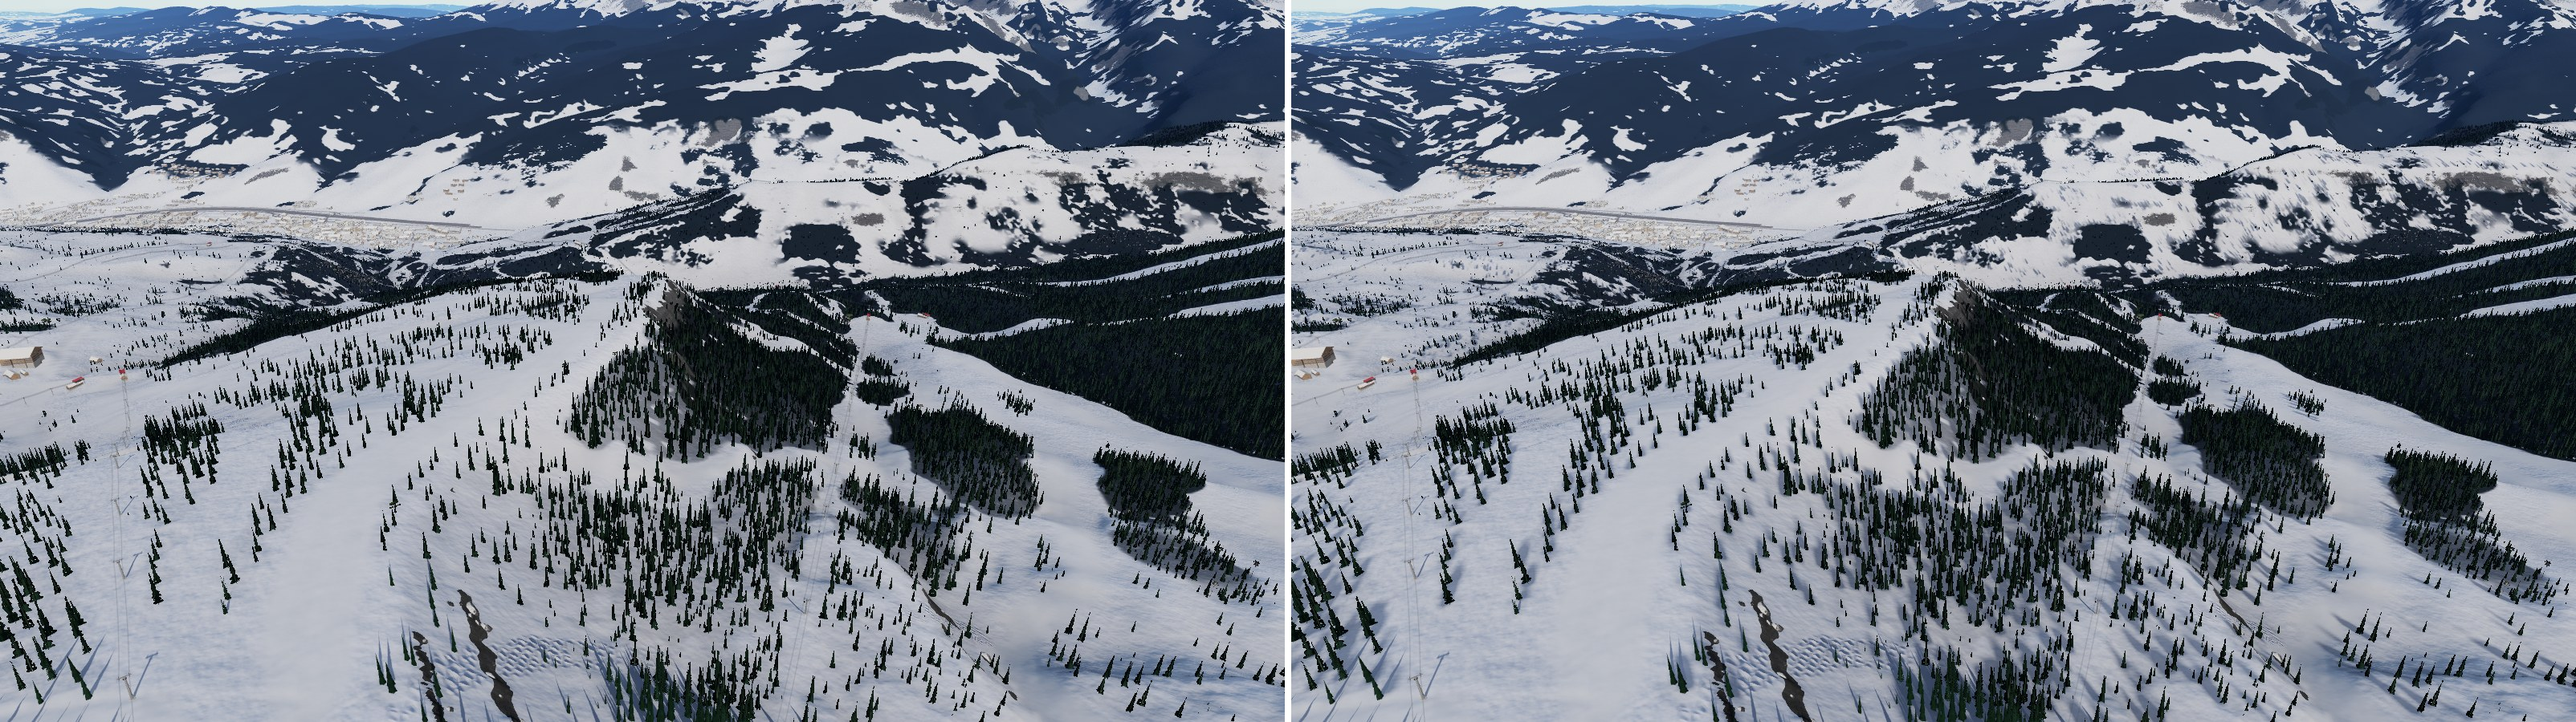
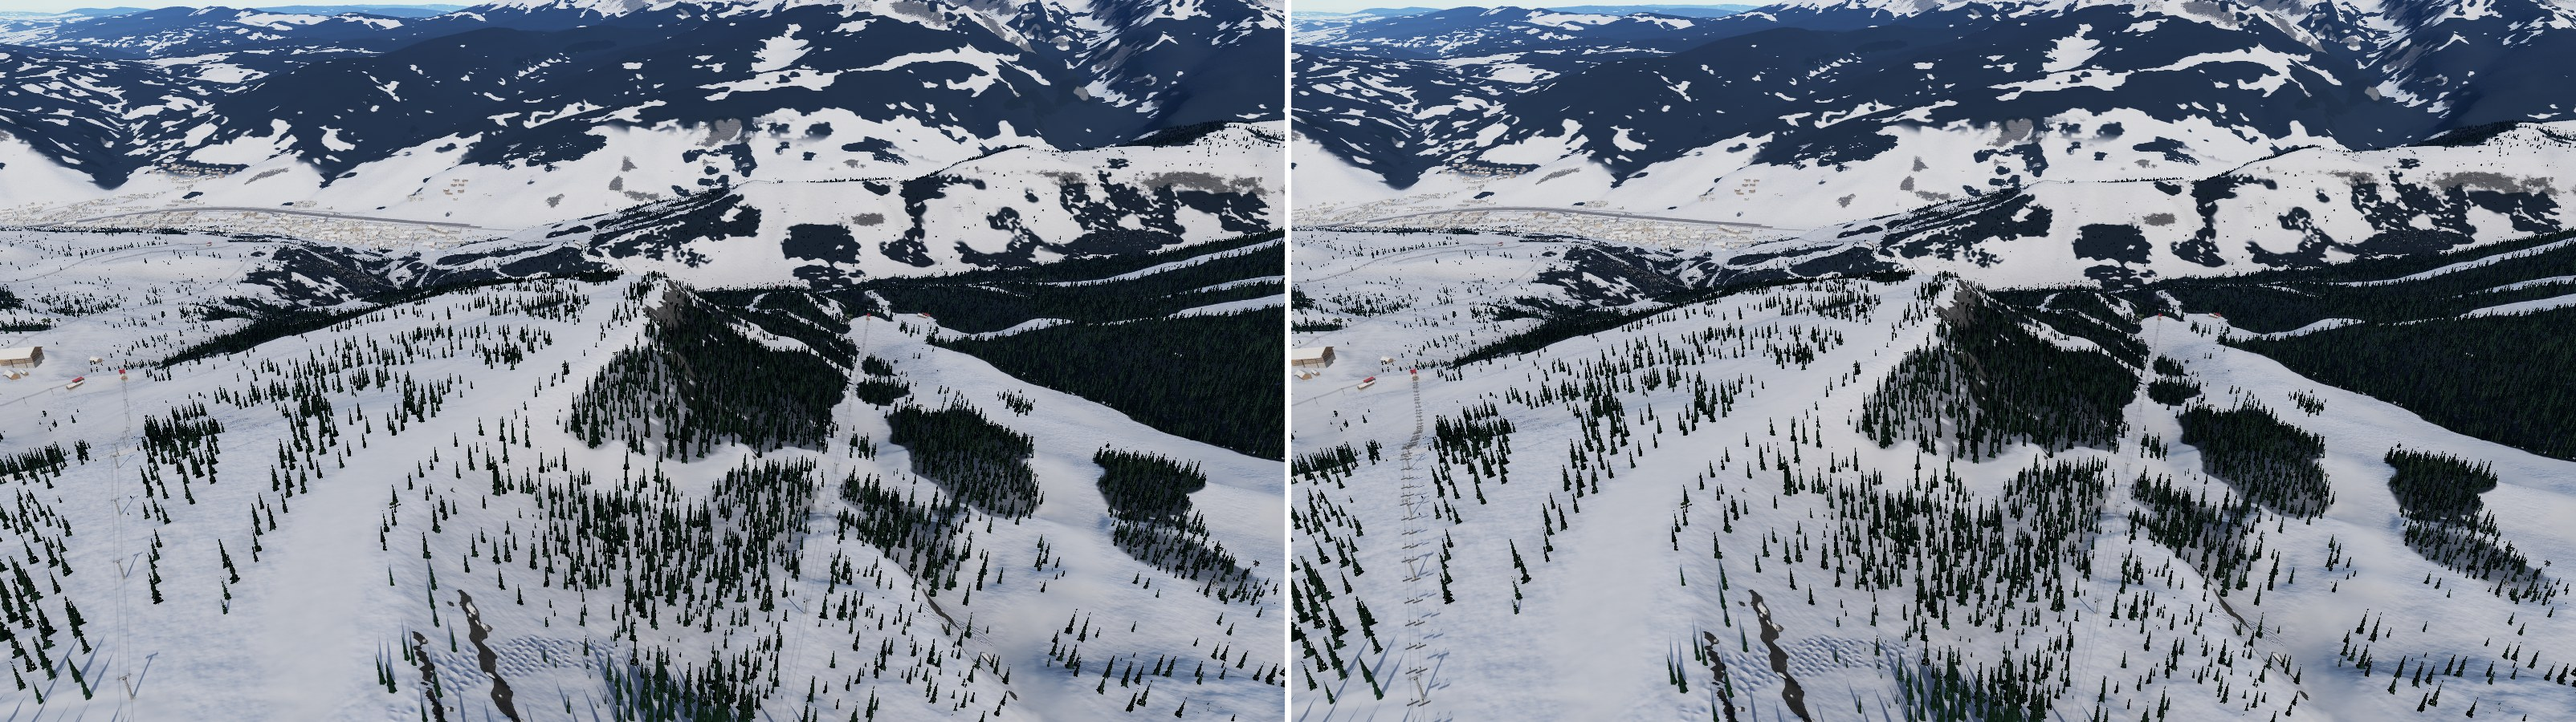
FEAT-168: address review (reset the tree map when no level has crowns; skip the shadow fetches inside 200 m, off the map and in flat light; new before/after stills)
The early out tests covW per pixel rather than the rect width (EMPTY_RECT is 1000 m wide), and the fetches use textureGrad with gradients taken before the branch, which clears the D3D X3595 warning.

diff --git a/game/src/terrain/TerrainMaterial.ts b/game/src/terrain/TerrainMaterial.ts
@@ -80,7 +80,7 @@ function snowLightsChunk(): string {
 export const LIFT_RAMP = 2000;
 /** FEAT-153: cover level slots in the shader (coarsest first) */
 export const COVER_SLOTS = 3;
-const EMPTY_RECT = new THREE.Vector4(-1e7, -1e7, -1e7 + 1000, -1e7 + 1000); // weight 0 everywhere, finite uv
+export const EMPTY_RECT = new THREE.Vector4(-1e7, -1e7, -1e7 + 1000, -1e7 + 1000); // weight 0 everywhere, finite uv
 function coverUniforms() {
   const blank = new THREE.DataTexture(new Uint8Array(2), 1, 1, THREE.RGFormat, THREE.UnsignedByteType);
   blank.needsUpdate = true;
@@ -249,7 +249,12 @@ export function createTerrainMaterial(): THREE.MeshStandardMaterial {
         #define TREE_SHADOW_MAX 48.0
         #define TREE_SHADOW_NEAR 200.0
         #define TREE_SHADOW_FULL 320.0
-        float treeShadow(vec2 p, float dist) {
+        // g: the uv's screen gradients (dFdx, dFdy), taken in main() before the caller's branch; the fetches
+        // here sit in per-pixel control flow, where implicit derivatives are undefined
+        float treeShadow(vec2 p, float dist, vec4 g) {
+          // off the map (EMPTY_RECT when the pack has no crowns level) or with the sun down: skip the 8 fetches
+          float w = covW(p, uTreeMapRect);
+          if (w <= 0.0 || uSunDir.y < 0.02) return 0.0;
           float sunH = length(uSunDir.xz);
           vec2 toSun = vec2(uSunDir.x, -uSunDir.z) / max(sunH, 1e-4);
           float len = min(TREE_SHADOW_H * sunH / max(uSunDir.y, 0.05), TREE_SHADOW_MAX);
@@ -257,10 +262,9 @@ export function createTerrainMaterial(): THREE.MeshStandardMaterial {
           for (int i = 0; i < 8; i++) {
             float t = (float(i) + 0.5) / 8.0;
             // a conifer's shadow narrows to its tip
-            acc += texture2D(uTreeMap, covUV(p + toSun * len * t, uTreeMapRect)).b * (1.0 - 0.75 * t);
+            acc += textureGrad(uTreeMap, covUV(p + toSun * len * t, uTreeMapRect), g.xy, g.zw).b * (1.0 - 0.75 * t);
           }
-          float on = step(uTreeMapRect.x, uTreeMapRect.z - 1.0) * covW(p, uTreeMapRect) * step(0.02, uSunDir.y);
-          return clamp(acc * 1.6, 0.0, 1.0) * on * smoothstep(TREE_SHADOW_NEAR, TREE_SHADOW_FULL, dist);
+          return clamp(acc * 1.6, 0.0, 1.0) * w * smoothstep(TREE_SHADOW_NEAR, TREE_SHADOW_FULL, dist);
         }
         // set in main() before lighting, read by the snow terms in RE_Direct_Physical
         float gSnowW;
@@ -468,8 +472,11 @@ export function createTerrainMaterial(): THREE.MeshStandardMaterial {
         timber = mix(timber, snow * 0.8, smoothstep(0.62, 0.9, crown) * crownK * 0.6); // snowy gaps between crowns
         base = mix(base, timber, fd * uTimberMix);
         gSnowW = wSnow * (1.0 - fd);
-        // FEAT-168: no shadows in flat light, none on the canopy itself
-        float treeShade = treeShadow(pxyF, dist) * (1.0 - fd) * (1.0 - uFlat);
+        // FEAT-168: no shadows in flat light, none on the canopy itself, none inside the shadow map's reach
+        // (the sample offsets are the same for every pixel, so each sample's uv gradient is this one's)
+        vec2 treeUV = covUV(pxyF, uTreeMapRect);
+        vec4 treeG = vec4(dFdx(treeUV), dFdy(treeUV));
+        float treeShade = (dist > TREE_SHADOW_NEAR && uFlat < 0.99 && fd < 0.99) ? treeShadow(pxyF, dist, treeG) * (1.0 - fd) * (1.0 - uFlat) : 0.0;
         gGlintW *= wSnow * (1.0 - wGroom * 0.6) * (1.0 - fd) * (1.0 - 0.6 * uSpring); // wet spring snow sparkles less
         diffuseColor.rgb = base;
         if (uDebugFar.w > 0.5) diffuseColor.rgb = mix(vec3(0.9), vec3(0.9, 0.1, 0.1), fd);

diff --git a/game/src/terrain/Terrain.ts b/game/src/terrain/Terrain.ts
@@ -1,7 +1,7 @@
 import * as THREE from 'three';
 import { type Pack, MOGUL_MAX_RES, MOGUL_SHADE_MAX_RES } from '../pack/Pack';
 import { MOGUL_FALL_D } from './Moguls';
-import { createTerrainMaterial, COVER_SLOTS } from './TerrainMaterial';
+import { createTerrainMaterial, COVER_SLOTS, EMPTY_RECT } from './TerrainMaterial';
 import { vegetationFarRadius } from '../world/Vegetation';
 
 /**
@@ -73,6 +73,8 @@ export class Terrain {
   private frame = 0;
   private readonly maskSample = [0, 0, 0, 0];
   private readonly coverSample = [0, 0, 0, 0];
+  /** FEAT-168: the material's placeholder tree map, put back when no loaded cover level has crowns */
+  private readonly blankTreeMap: THREE.Texture;
   /** chunks selected this frame */
   private visible: Chunk[] = [];
   readonly stats = { chunks: 0, builds: 0, triangles: 0 };
@@ -89,6 +91,7 @@ export class Terrain {
   constructor(pack: Pack) {
     this.pack = pack;
     this.material = createTerrainMaterial();
+    this.blankTreeMap = (this.material.userData.uniforms as { uTreeMap: { value: THREE.Texture } }).uTreeMap.value;
     const far = pack.meta.terrain.far ?? pack.meta.terrain.mid ?? pack.meta.terrain.fine!;
     this.rootMinX = far.minX;
     this.rootMinY = far.minY;
@@ -120,10 +123,15 @@ export class Terrain {
     }
     u.uCovBlend.value = cover.meta.blend;
     // FEAT-168: the level that knows where the drawn trees stand, for their shadows past the shadow map
+    // (none: back to the empty rect, which the shader treats as off, so no stale shadows after a pack switch)
     const trees = loaded.find((l) => l.hasTrees);
+    const treeRect = (u.uTreeMapRect as unknown as { value: THREE.Vector4 }).value;
     if (trees) {
       u.uTreeMap.value = trees.texture!;
-      (u.uTreeMapRect as unknown as { value: THREE.Vector4 }).value.set(...trees.rect);
+      treeRect.set(...trees.rect);
+    } else {
+      u.uTreeMap.value = this.blankTreeMap;
+      treeRect.copy(EMPTY_RECT);
     }
     for (const c of this.chunks.values()) if (c.mesh && c.res > 8) this.dirty.add(c.key);
   }
